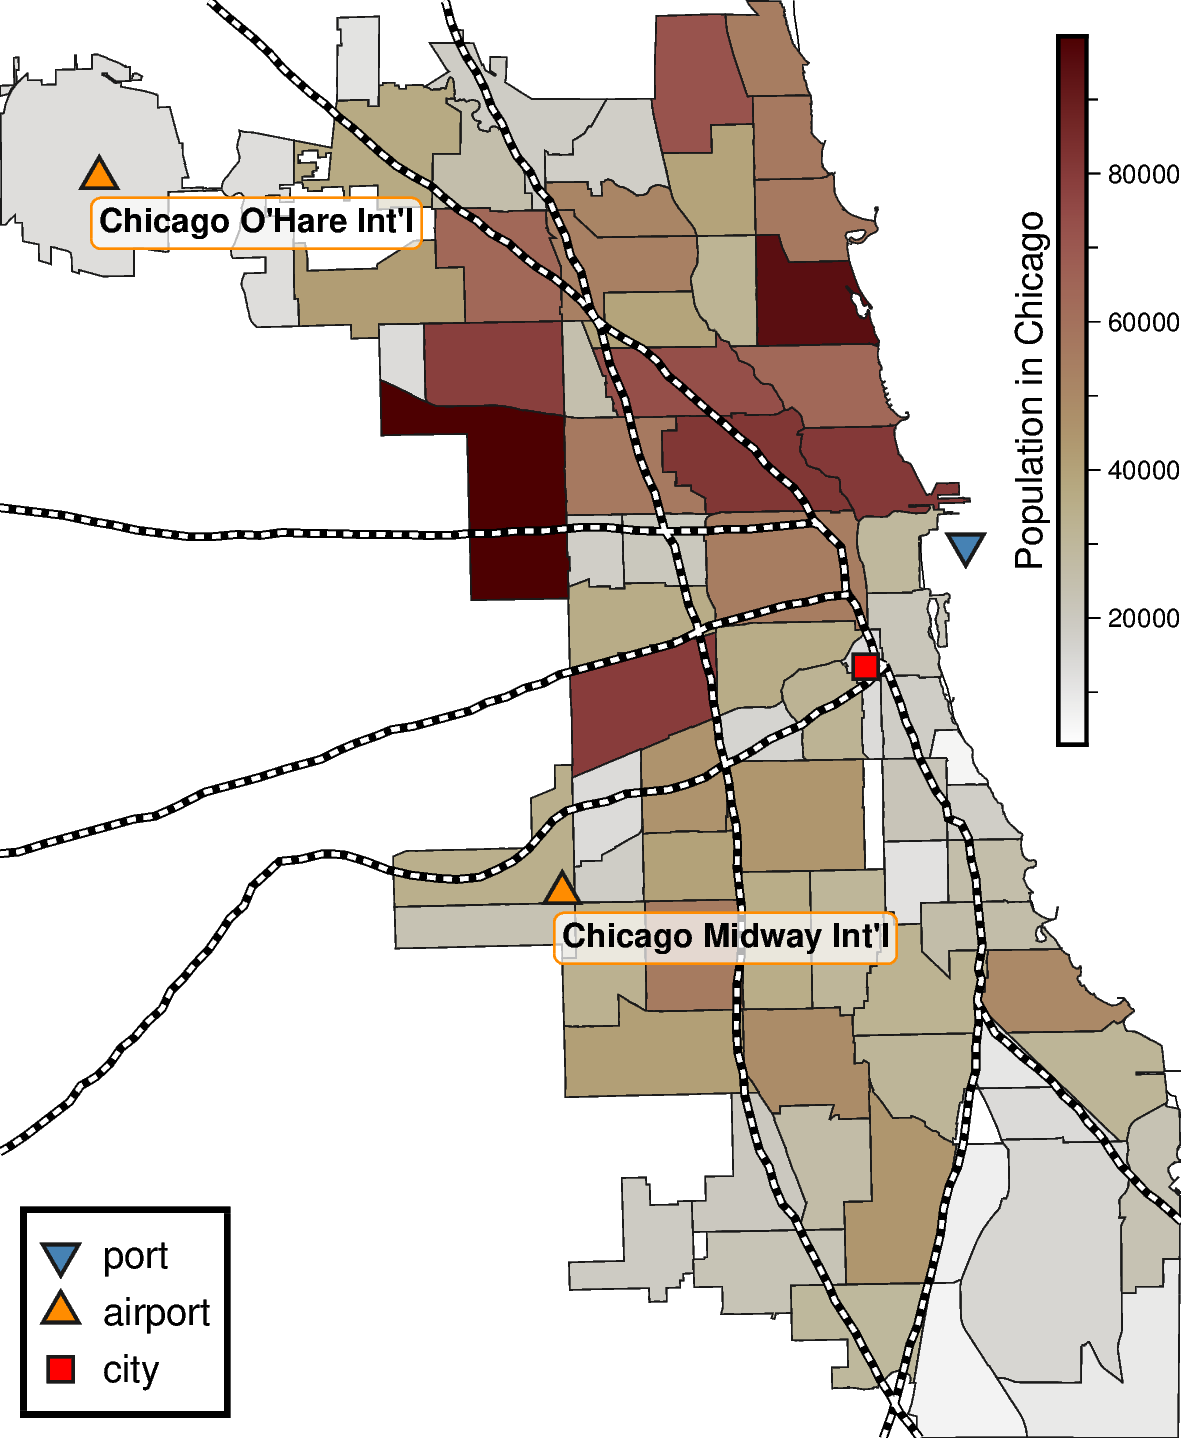
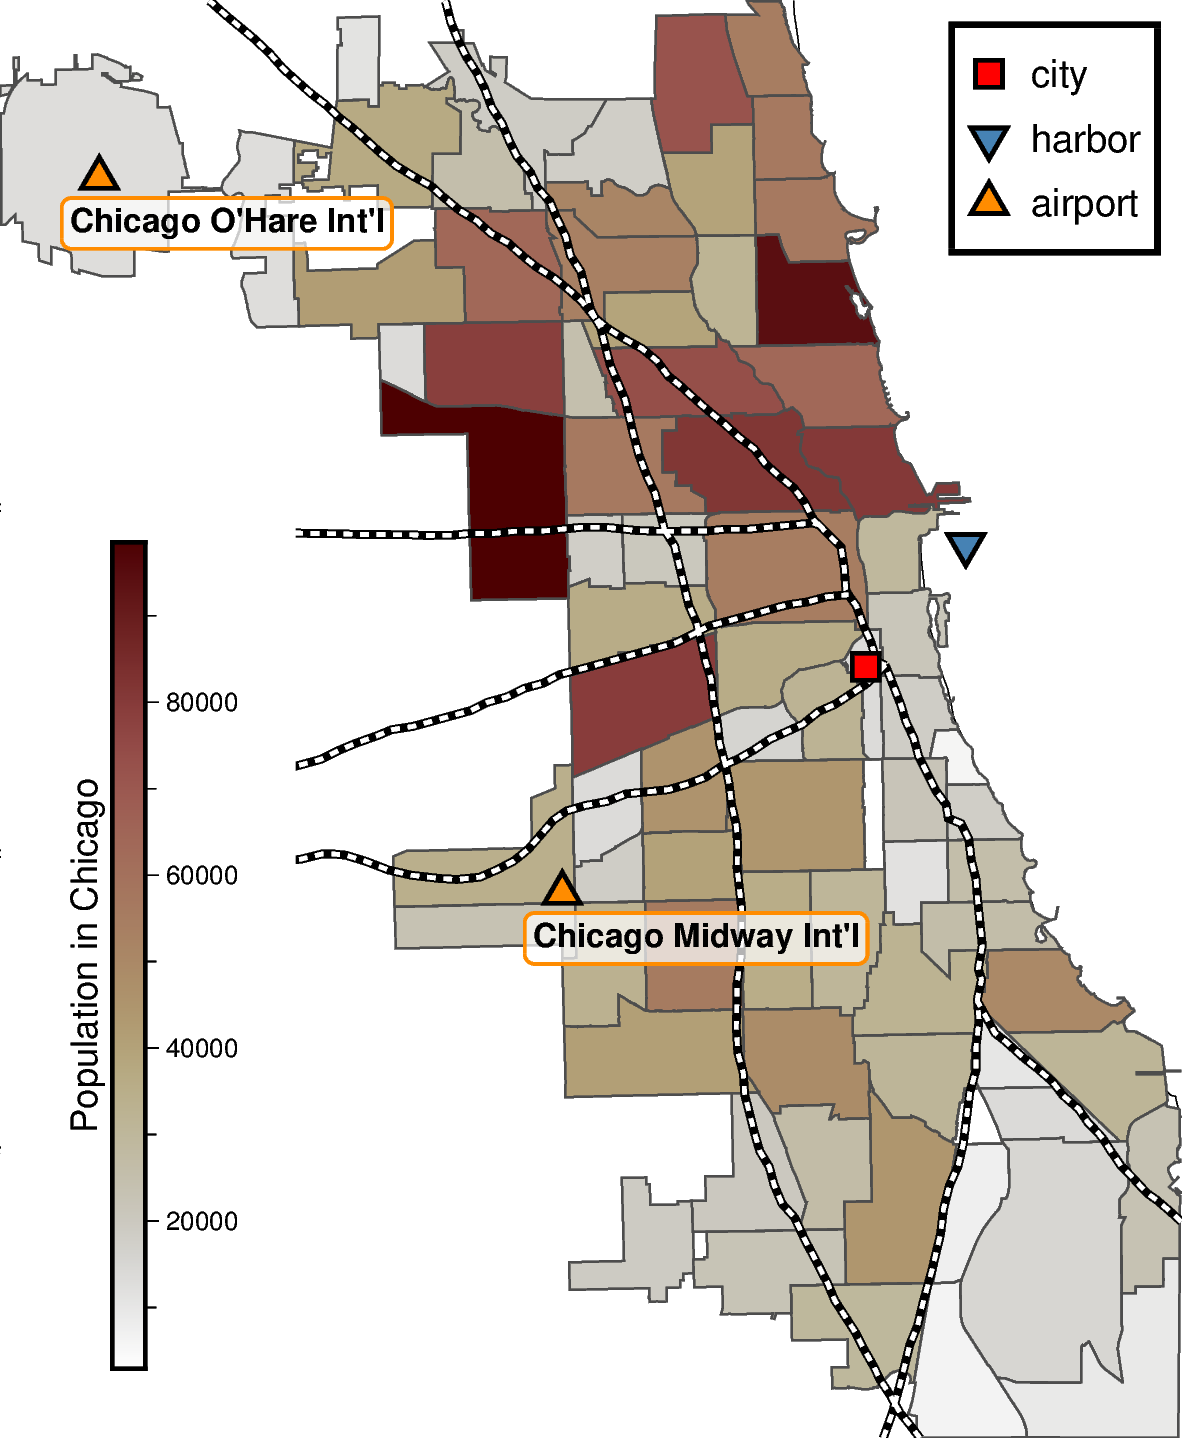
Improve visualization

diff --git a/Fig6_PyGMT_geopandas.py b/Fig6_PyGMT_geopandas.py
@@ -13,8 +13,6 @@ ports = gpd.read_file(f"{provider}/10m/cultural/ne_10m_ports.zip")
 ports = ports.cx[-87.94:-87.52, 41.64:42.02]
 railroads = gpd.read_file(f"{provider}/10m/cultural/ne_10m_railroads.zip")
 railroads = railroads.cx[-87.94:-87.52, 41.64:42.02]
-# rivers = gpd.read_file(f"{provider}/10m/physical/ne_10m_rivers_lake_centerlines.zip")
-# rivers = rivers.cx[-87.94:-87.52, 41.64:42.02]
 
 # %%
 fig = pygmt.Figure()
@@ -23,28 +21,27 @@ fig.coast(shorelines=True, rivers="1/1p,blue")
 
 pygmt.makecpt(cmap="bilbao", series=[gdf["population"].min(), gdf["population"].max()])
 fig.plot(data=gdf, pen="0.3p,gray10", fill="+z", cmap=True, aspatial="Z=population")
-fig.colorbar(frame="xaf+lPopulation in Chicago", position="jTR+o0.8c/0.3c+w6c+ml")
 
 fig.plot(data=railroads["geometry"], pen="2p,black")
 fig.plot(data=railroads["geometry"], pen="1p,white,2_2")
 
-# fig.plot(data=rivers["geometry"], pen="1p,steelblue")
-
-fig.plot(data=ports["geometry"], style="i0.35c", fill="steelblue", pen="0.8p,gray10", label="port")
-fig.plot(data=airports["geometry"], style="t0.35c", fill="darkorange", pen="0.8p,gray10", label="airport")
+fig.plot(data=cities["geometry"], style="s0.35c", fill="red", pen="1p", label="city")
+fig.plot(data=ports["geometry"], style="i0.35c", fill="steelblue", pen="1p", label="port")
+fig.plot(data=airports["geometry"], style="t0.35c", fill="darkorange", pen="1p", label="airport")
 fig.text(
     x=airports.geometry.x,
     y=airports.geometry.y,
     text=airports["name"],
-    offset="0c/-0.25c",
+    offset="-0.25c",
     justify="TL",
     font="8p,Helvetica-Bold",
     fill="white@30",
-    pen="0.5p,darkorange",
+    pen="0.8p,darkorange",
     clearance="0.08c+tO",
 )
-fig.plot(data=cities["geometry"], style="s0.3c", fill="red", pen="0.8p,gray10", label="city")
-fig.legend(position="jBL+o0.2c+l1.5", box=True)
+
+fig.colorbar(frame="xaf+lPopulation in Chicago", position="jML+o0.95c/-2c+w7c+ml", box="+c0.5c+gwhite")
+fig.legend(position="jTR+o0.2c+l1.5", box=True)
 
 fig.show()
 fig.savefig(fname="Fig6_PyGMT_geopandas_chicago.png")
